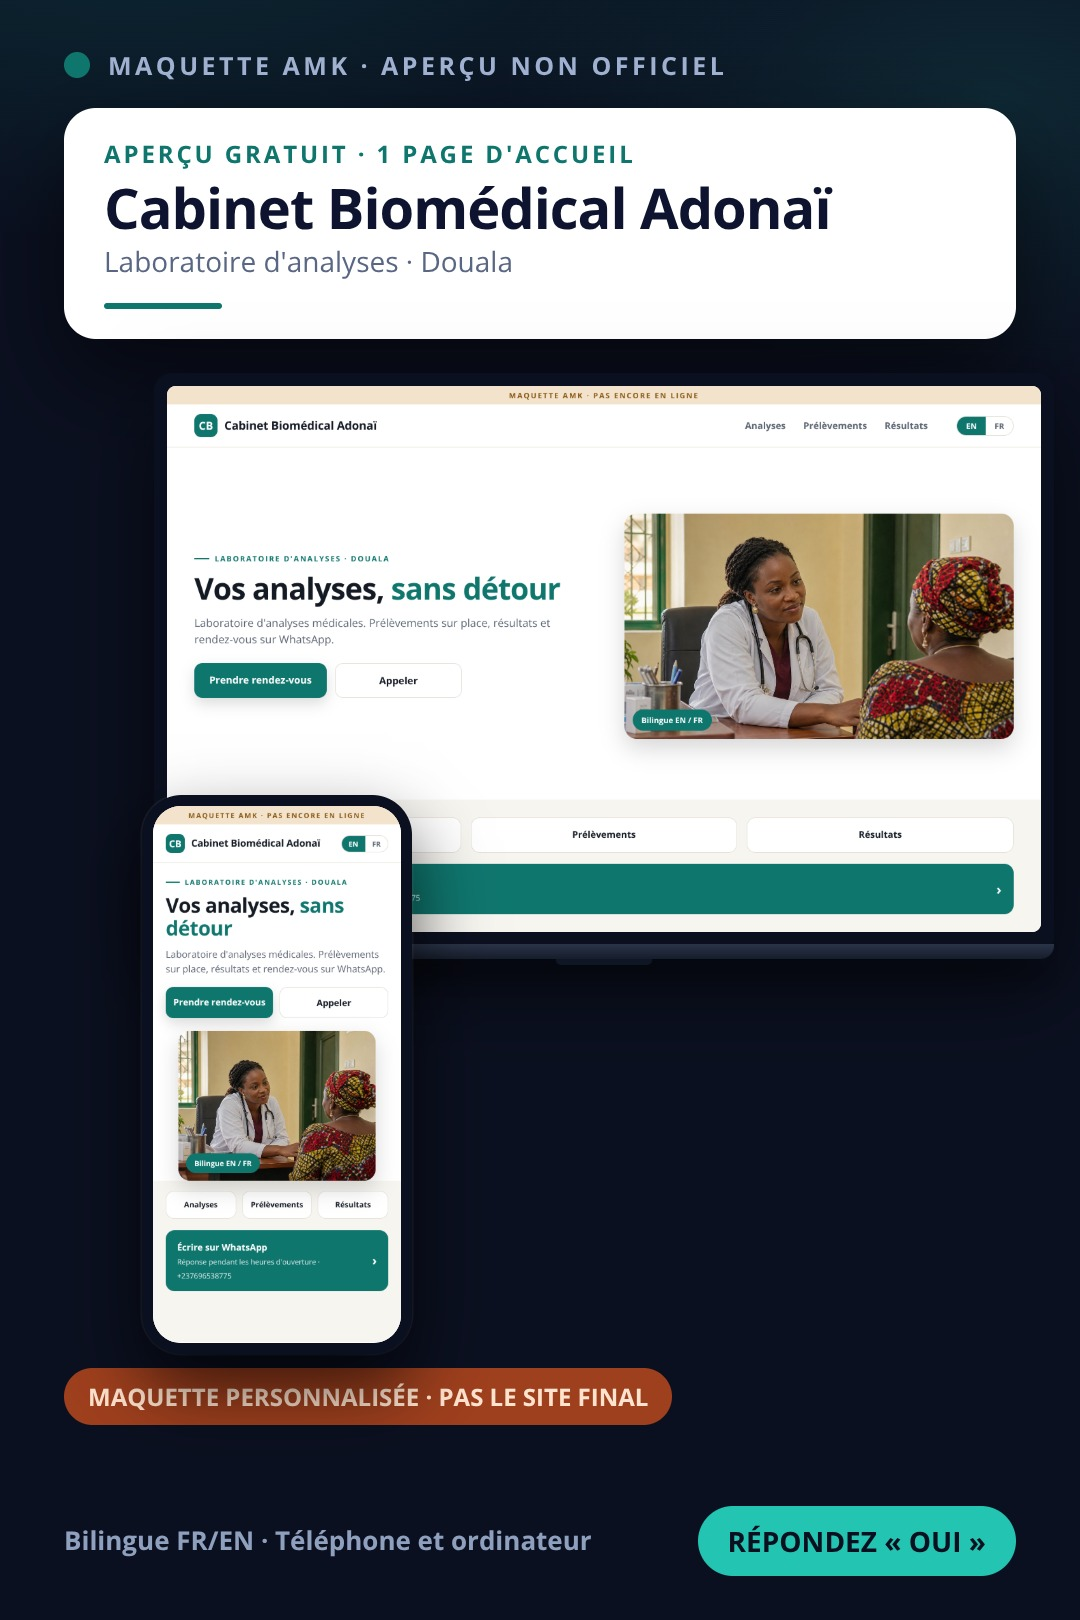
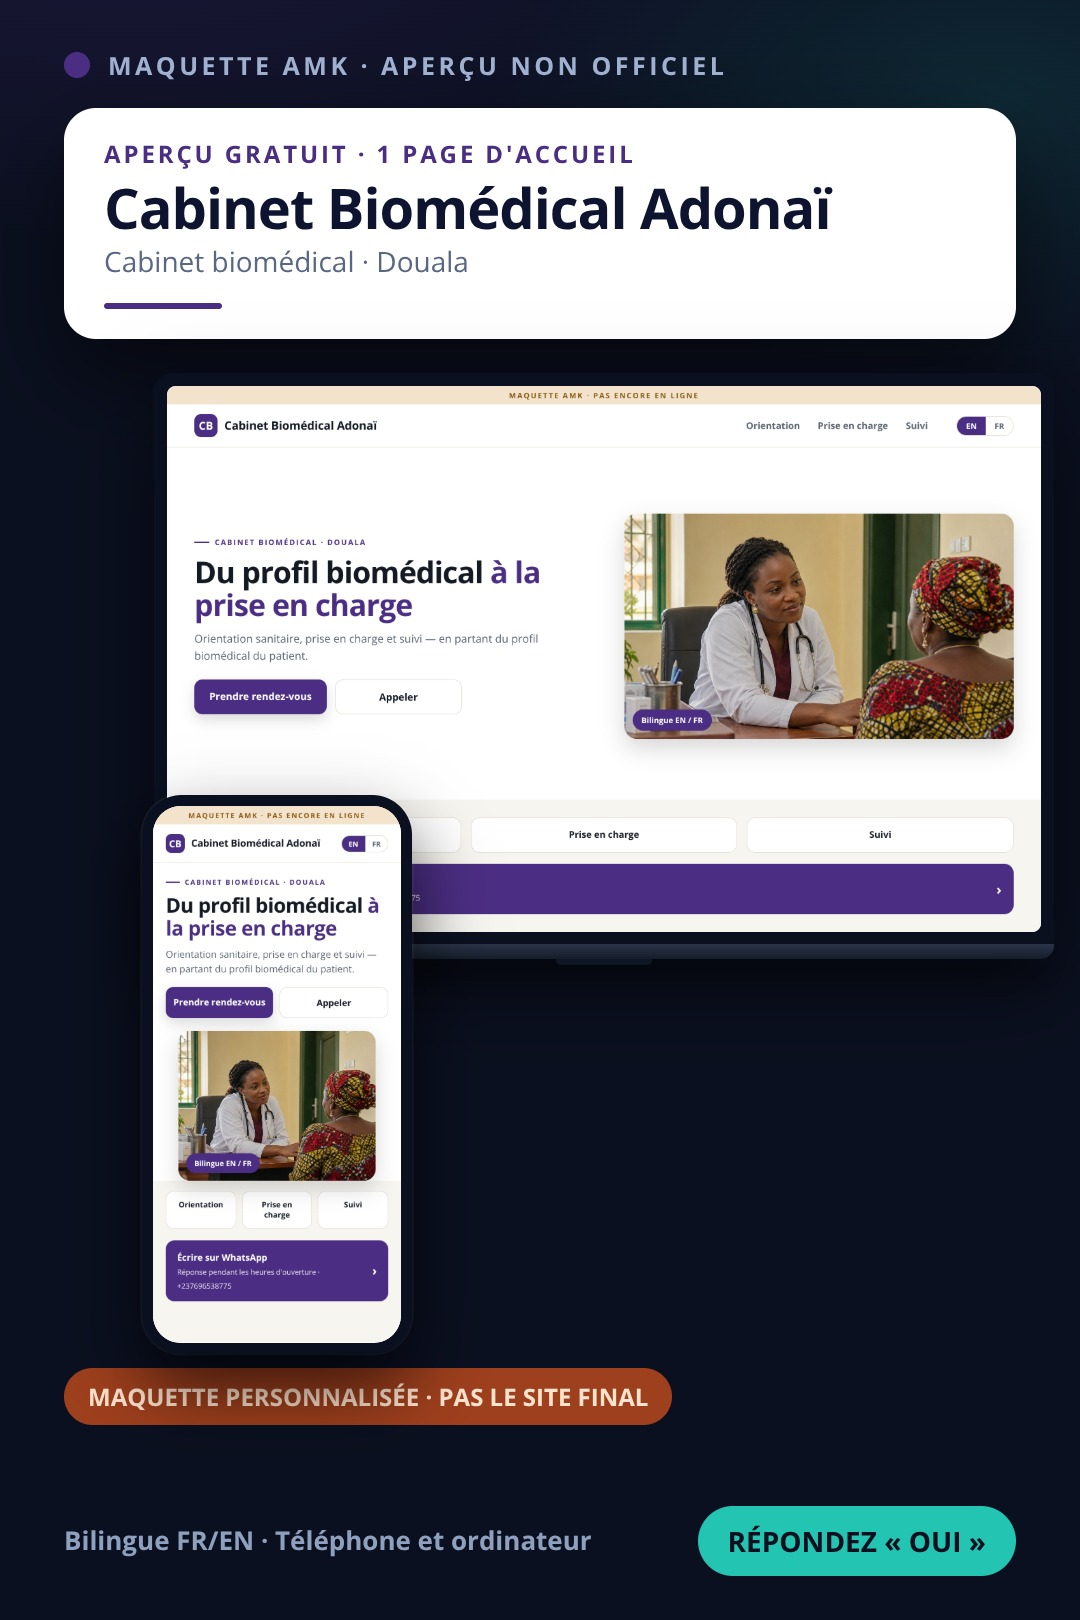
King corrections: 17 Sep sends logged, QUALITECH has a site, Adonai + Malia first
- Activity-Log: L'Opticien, La Bethanie and JEMPO went out Thu 17 Sep (my 18 Sep
  send sheet wrongly still listed them as pending). 15 messages sent, 10 open
  threads, one reply in the whole campaign
- QUALITECH removed from the Douala pack: qualitechsarl.org is live, so there is no
  need to sell a site. Mockup kept as research evidence, not to be sent
- Adonai and Malia Labo are the only two of the six with verified WhatsApp Business
  profiles, so they lead. Both mockups regenerated in their own logo colours
  (Adonai violet #4B2E83, Malia blue #0F6FB5) and Adonai's mockup now uses their own
  published wording (profil biomedical, prise en charge, suivi)

diff --git a/sales/Pipeline-Status.md b/sales/Pipeline-Status.md
@@ -95,6 +95,7 @@ Any fresh "yes" joins this list immediately.
 6. ✅ 15 Sep: clinic batch delivered — Solidarity Clinic & Laboratory and MITOC qualified, workbook IDs 36-37, dossier `sales/Clinic-Batch-2026-09-15.md`, messages queued Tue 08:35 (clinics lead the day). Parks: Liwo, Soliman, St Veronica (all own maintained sites).
 
 ## Log (newest first)
+- **Fri 18 Sep, afternoon (King corrections + two labs greenlit):** three corrections logged. (1) **L'Opticien, La Béthanie and JEMPO were sent on Thu 17 Sep** — my 18 Sep send sheet still listed them as pending, which was wrong; Activity-Log now shows 15 messages sent, 10 open threads, still one reply (St. Theresa). (2) **Laboratoire QUALITECH has a live site (qualitechsarl.org)** — removed from the Douala pack, mockup kept but not sent. (3) **Cabinet Biomédical Adonaï (696 53 87 75) and Malia Labo (694 56 22 44) are the only two of the six with verified WhatsApp Business profiles** (King screenshots) — they go first. Both mockups regenerated in their own logo colours: Adonaï violet `#4B2E83` (their crown logo), Malia `#0F6FB5` (blue script on green block). Adonaï's own published wording — *profil biomédical, prise en charge, suivi* — is now the mockup headline, because their promise is currently readable only by people already messaging them.
 - **Fri 18 Sep, 12:30 (correction of a reporting error + Douala clinic pack):** King caught a false statement in my summary — I had written that OraCare and MITOC had replied. **They have not; neither message has even been read.** The CRM was right all along: its Reply column is empty for MITOC, Baird and Baptist, and carries St. Theresa's verbatim — **the only reply in the entire campaign** (15 Sep 20:44, asking us to come back in October, permission given 22:51). My error was summarising from memory instead of reading the file. New [`Activity-Log.md`](Activity-Log.md) records the true state line by line: **12 messages sent since 14 Sep, 1 reply (8.3%), 0 preview requests, 0 clients, 0 FCFA**, and "sent is not read is not replied" is now an explicit rule. **Also logged: at 12:07 on 18 Sep, zero messages had gone out that day** — the 09:00 sheet (L'Opticien, La Béthanie, JEMPO + Skye/YAKS FU1) had not been executed, so those five are still ready and unsent. New [`Send-Pack-Douala-Cliniques-2026-09-18.md`](Send-Pack-Douala-Cliniques-2026-09-18.md) with **six Douala clinics/labs, in French**, mockups in `clients/douala-cliniques/`: CAMERA (699 90 53 27, Dr Simo Happy, Akwa, 252 WA clicks) · LE NID (699 987 775, Dr Ndongo Diye Eitel, Bessengue, 199) · Wonders Medical (number not obtainable — 339 WA clicks, highest in the file) · Adonaï (696 53 87 75) · QUALITECH (690 72 01 84) · Malia Labo (694 56 22 44). **Clinique des Anges excluded — it already has a website** (angesclinic-dla.cm); J&E Memorial is JEMPO, already messaged this morning.
 - **Fri 18 Sep, morning (MQL sweep + first three mockups):** full 38-lead MQL qualification written to [`MQL-Qualification-2026-09-18.md`](MQL-Qualification-2026-09-18.md) against six gates (reachable channel · no live site · verified pain · identifiable decision-maker · capacity · available). **Finding that changes the week: there is no outbound MQL available today.** Only 6 leads score 6/6 (SJC Sasse, Summerset, Saint Bernard, NABESK, St. Sylvester, Salvation) and **none of them is reachable today** — CORRECTION 18/09 (King): **no sealed card was ever delivered**; these six are cold, never contacted, and none has a known number. They are not inbound invitees. The clinic pool is exhausted (Solidarity has no WhatsApp line, One Stop is Dr Njang's forbidden line, MITOC and OraCare already served), so "clinics first" has no fuel left. The real bottleneck is **number verification**: 12 leads sit at `À VÉRIFIER` for one reason — nobody has confirmed their number is on WhatsApp; five of them are Douala, where Divine Success (3 campuses, **already running TikTok ads**, no site) is the file's best digital intent. King's phone, ~10 minutes, unlocks every one of them. Prepared the three 6/6 Buea schools (messages in `sales/Send-Pack-2026-09-18-1030.md`, in **English** — Buea is anglophone; the first mockups were produced in French by mistake and must be redone): dossiers in `clients/summerset/`, `clients/nabesk/`, `clients/saint-bernard/` with verified facts, sources, design direction (cobalt+cream / mono+cyan / olive+brick+paper — three distinct identities, no palette repeated) and a phone+laptop mockup each. Accuracy correction logged: the file's "83.5% O-level" for NABESK is in fact **83.46% at A-Level 2020**. No WhatsApp number injected into any mockup — none is verified for these three.
 - **Wed 16 Sep ~12:00 (TikTok post #1 LIVE ~11:45 — clinic EN; post-#1 site audit + fixes, QA preview on port 8090):** King posted clinic-founding-en; bio-link site loads instantly but mobile EN/FR switch showed only EN. Full static audit in `sales/Site-Audit-2026-09-16.md` (11 findings); King approved Batch A+B, all implemented: **(1)** header pill clipping fixed homepage + all 4 concepts (flex:none/nowrap, tagline hide, clinic Book hidden ≤640 — sticky bar carries it); **(2)** homepage focus-visible rings + reduced-motion-safe counters; **(3)** NEW sticky mobile CTA bar (Free-preview WhatsApp + See concepts), src-aware prefilled message; **(4)** lead form 5 fields → name* + school/clinic chip (synced with hero niche) + WhatsApp number; **(5)** share card `img/og-cover.jpg` 1200×630 + og/twitter meta (`img/make_og.py`); **(6)** homepage FAQPage schema (@graph LocalBusiness+FAQ, validated); **(7)** ₣ → "100,000 FCFA"; **(8)** language persists via localStorage across homepage↔concepts + `?lang=`; **(9)** `?src=tiktok|ig|fb|yt|wa|status` appended to WA prefill — **King to set TikTok bio link to `https://amk-cm.vercel.app/?src=tiktok`**; **(10)** 44px hamburger + aria labels/tabs, marquee pauses on focus; **(11)** legacy school/nursery pages hardened; zip rebuilt (14 files). QA: EN/FR parity, node JS check, JSON-LD parse all pass. Awaiting King phone QA on the preview, then redeploy site/ to amk-cm (also ships newer clinic/secondary builds w/ proof/follow + 52px targets), Rich Results Test, WA unfurl check. Next: YouTube Shorts metadata for post #1; clinic FR video 18:00–20:00; Douala hot-list phone verification still queued.

diff --git a/sales/Send-Pack-Douala-Cliniques-2026-09-18.md b/sales/Send-Pack-Douala-Cliniques-2026-09-18.md
@@ -53,7 +53,10 @@ Je vous envoie le lien ? Un « oui » suffit.
 — Akwo King / AMK – Développement Web & Solutions Digitales
 ```
 
-## 5 · Laboratoire QUALITECH — Logbessou / Deido · **690 72 01 84**
+## 5 · RETIRE — Laboratoire QUALITECH **a deja un site**
+*Verifie par King le 18/09 : **https://qualitechsarl.org/** existe.* Un site vivant = pas de besoin -> hors cible (porte M2). `05-qualitech.jpg` a ete produite avant la verification : **ne pas l'envoyer**, la garder comme preuve de recherche. Sa section est conservee ci-dessous **pour memoire seule**.
+
+### (retire) Laboratoire QUALITECH — Logbessou / Deido · **690 72 01 84**
 `clients/douala-cliniques/05-qualitech.jpg`
 ```
 Bonjour. Akwo King, AMK — Développement Web, Douala.
@@ -82,6 +85,7 @@ Je vous envoie le lien ? Un « oui » suffit.
 | Établissement | Raison |
 |---|---|
 | **Clinique des Anges** (Nyalla) | **A un site** : `angesclinic-dla.cm` → elle n'a pas besoin d'un site, elle en a un. Écartée du lot. |
+| **Laboratoire QUALITECH** (Logbessou/Deido) | **A un site** : `qualitechsarl.org` (vérifié par King 18/09) → écarté. Quatrième écarté pour site existant, avec Clinique des Anges. |
 | **J&E Memorial Polyclinic** (Bessengue) | **C'est JEMPO** — déjà prospect, message parti ce matin, maquette déjà faite. Ne pas doubler. |
 | **L'Opticien Bali · Maison Optique** | Opticiens : le playbook MITOC s'applique, autre lot. |
 | **JOSS MEDI** | 292 clics WhatsApp = le plus actif, mais **envoi déjà bloqué par la porte de vérification** (décision antérieure). |
@@ -91,4 +95,4 @@ Je vous envoie le lien ? Un « oui » suffit.
 
 **D'abord :** L'Opticien, La Béthanie, JEMPO — préparés depuis hier, en français, maquettes faîtes, et **rien n'est parti ce matin** (zéro envoi à 12:07). Ils sont prêts et ciblés : c'est le meilleur retour par minute investie.
 
-**Ensuite :** les six ci-dessus, dans l'ordre — **1 CAMERA · 2 LE NID · 3 WONDERS (dès numéro) · 4 ADONAÏ · 5 QUALITECH · 6 MALIA**.
+**Ensuite, ordre fixé par King (18/09) :** **1 ADONAÏ puis 2 MALIA LABO** — les deux seuls du lot avec un **profil WhatsApp Business vérifié** (captures de King). Puis **3 CAMERA · 4 LE NID** (numéros sûrs, à confirmer sur WhatsApp avant envoi) · **5 WONDERS** dès que le numéro est récupéré. **QUALITECH retiré.**

diff --git a/sales/Activity-Log.md b/sales/Activity-Log.md
@@ -19,17 +19,22 @@
 | mer 16/09 | OraCare237 | FU1 (M+2) | Envoyé | **Non** |
 | mer 16/09 | Cabinet Dentaire The Skye (677 79 69 99) | msg 1 | Envoyé | **Non** |
 | mer 16/09 | Cabinet dentaire YAKS (672 70 20 78) | msg 1 | Envoyé | **Non** |
+| **jeu 17/09** | **L'OPTICIEN** (Bali, 670 27 60 65) | msg 1 + maquette | **ENVOYÉ (confirmé par King 18/09)** | **Non** |
+| **jeu 17/09** | **LA BÉTHANIE** (Bonabéri, 677 76 07 82) | msg 1 + maquette | **ENVOYÉ (confirmé par King 18/09)** | **Non** |
+| **jeu 17/09** | **JEMPO / J&E Memorial** (Deido, 696 71 06 99) | msg 1 + maquette | **ENVOYÉ (confirmé par King 18/09)** | **Non** |
 | jeu 17/09 13:24 | AFRIQUE LABO (690 54 70 93) | msg 1 | Envoyé, 2 coches | **Non** |
 | jeu 17/09 13:47 | MITOC | FU1 (M+2) | Envoyé | **Non** |
 | jeu 17/09 13:48 | Baird Memorial | FU1 (M+2) | Envoyé | **Non** |
 
 ### Bilan chiffré (à ne jamais arrondir en notre faveur)
 
-- **12 messages envoyés** depuis le 14/09.
+- **15 messages envoyés** depuis le 14/09 — dont **L'Opticien, La Béthanie et JEMPO, partis le jeudi 17/09** (correction de King, 18/09 : ma feuille d'envoi du 18/09 les listait encore comme « à envoyer », c'était une erreur de planification de ma part).
 - **1 seule réponse** : St. Theresa. Soit **8,3 %** — dans la fourchette normale du froid, mais l'échantillon est trop petit pour en tirer une conclusion.
 - **0 prospect n'a demandé l'aperçu.**
 - **0 client · 0 acompte · 0 FCFA** de revenu.
-- **L'Opticien, La Béthanie, JEMPO : rien n'est parti au 18/09 12:07.** La feuille de 09:00 n'a pas été exécutée — donc **zéro envoi ce jour** à cette heure-là.
+- **L'Opticien, La Béthanie, JEMPO : ENVOYÉS le jeudi 17/09.** Ils sont en attente de réponse, plus en attente d'envoi. La feuille du 18/09 qui les listait encore était fausse — corrigé ici.
+- **Fils ouverts sans réponse au 18/09 :** OraCare · MITOC · Baptist Comprehensive · Baird Memorial · The Skye · YAKS · AFRIQUE LABO · L'Opticien · La Béthanie · JEMPO. **10 fils ouverts, 1 seule réponse depuis le début (St. Theresa).**
+- **Relances échues :** Skye (M+2) et YAKS (M+2) — 18/09 · AFRIQUE LABO (M+2) — 19/09 · OraCare (M+4) — 20/09 · MITOC (M+4) — 21/09.
 
 ## 2 · Ce que cette erreur m'apprend (et que je consigne pour ne pas la refaire)
 
